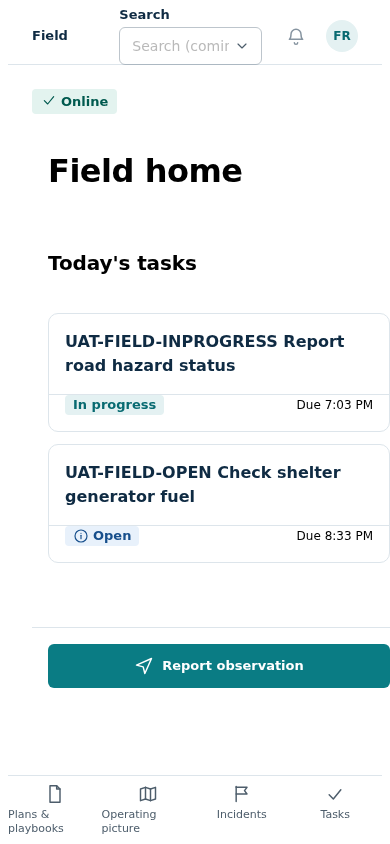
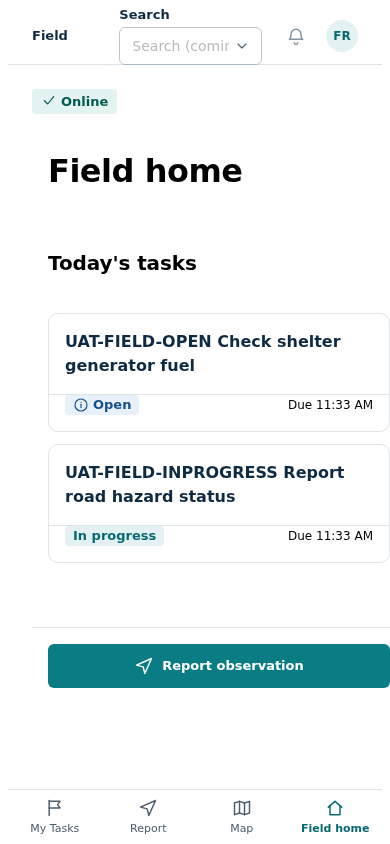
feat(phase-5): execution complete

diff --git a/.planning/phases/05-mobile-field-operations/logs/attempt-4/verification.md b/.planning/phases/05-mobile-field-operations/logs/attempt-4/verification.md
@@ -1,0 +1,3 @@
+# Verification Log
+
+No verification transcript available.

diff --git a/.planning/phases/05-mobile-field-operations/logs/attempt-4/execution.md b/.planning/phases/05-mobile-field-operations/logs/attempt-4/execution.md
@@ -1,0 +1,3 @@
+# Execution Log
+
+No execution transcript available.
